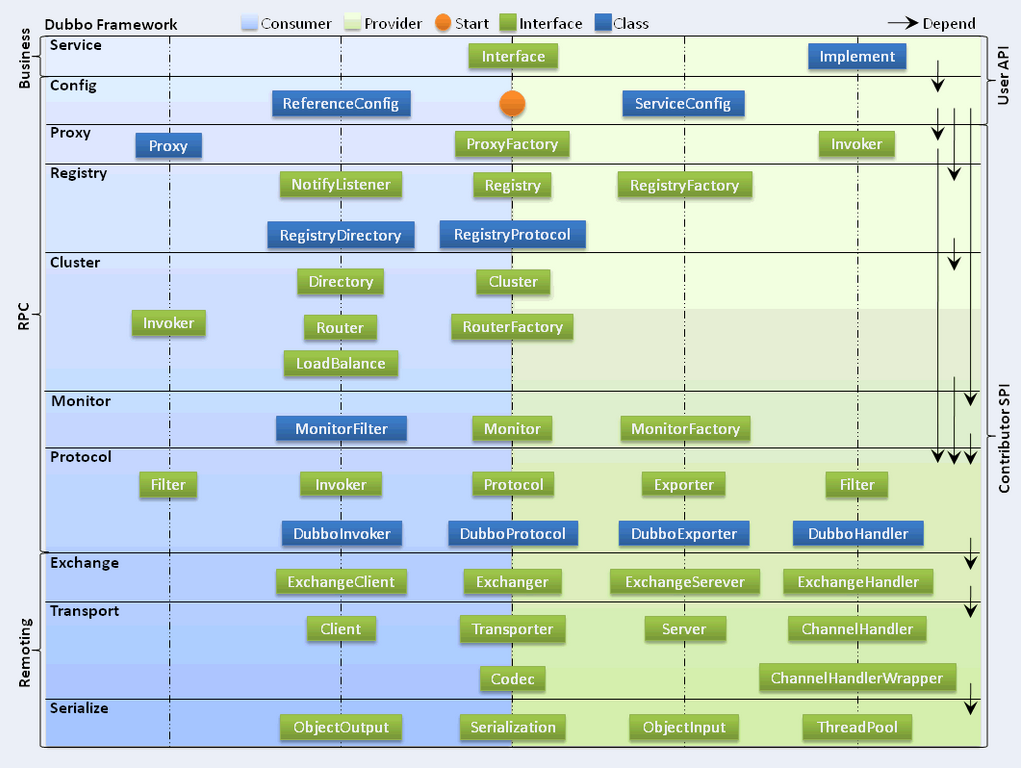
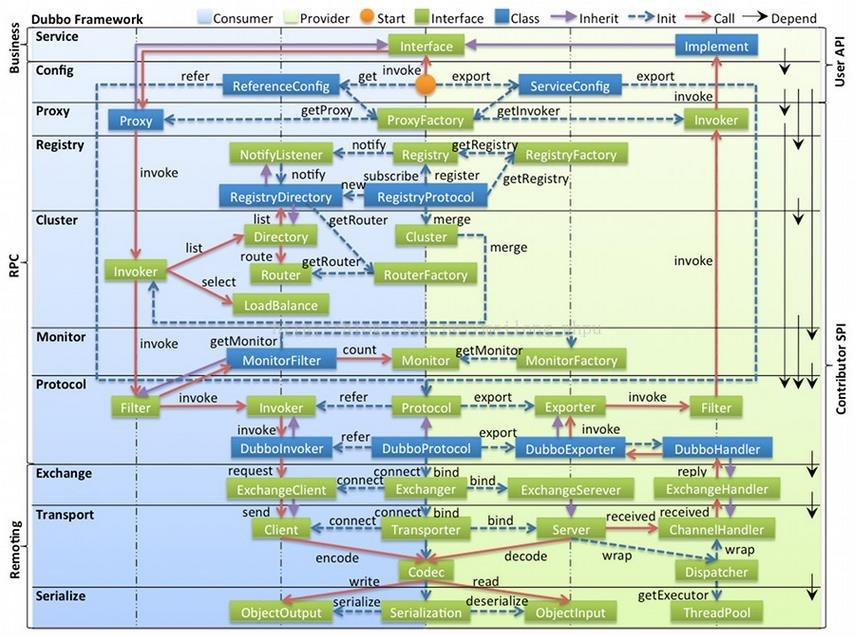
更新图片

diff --git a/深入理解dubbo.md b/深入理解dubbo.md
@@ -30,7 +30,7 @@
 - 服务版本
 ## Dubbo的结构
 在Dubbo中 也有类似于互联网的分层结构 每一层依赖于其下一层的实现来完成自己的功能 并为上一层提供服务 每一层都可以使用别的实现 更换实现也不会影响到别的层的功能
-![avatar](Dubbo整体架构.png)
+![avatar](Dubbo整体架构.png)
 - 分层实现
   - Service和Config层
     - 是Dubbo的API层
@@ -40,8 +40,15 @@
     - 下面个层都是组件化的 可以被替换
 - 具体各层
   - Service
+    - 接口和实现类
+    - 接口由SDK提供
+    - 实现类由Provider提供
   - Config
+    - 服务启动器
+    - Consumer的ReferenceConfig
+    - Provider的ServiceConfig
   - Proxy
+    - 服务代理层
   - Registry
   - Cluster
   - Monitor
